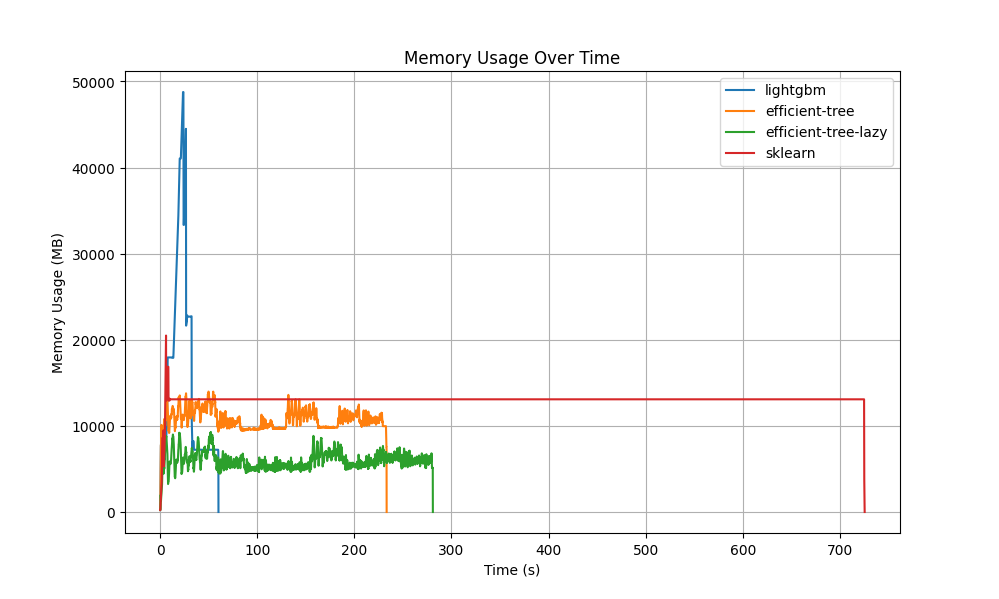
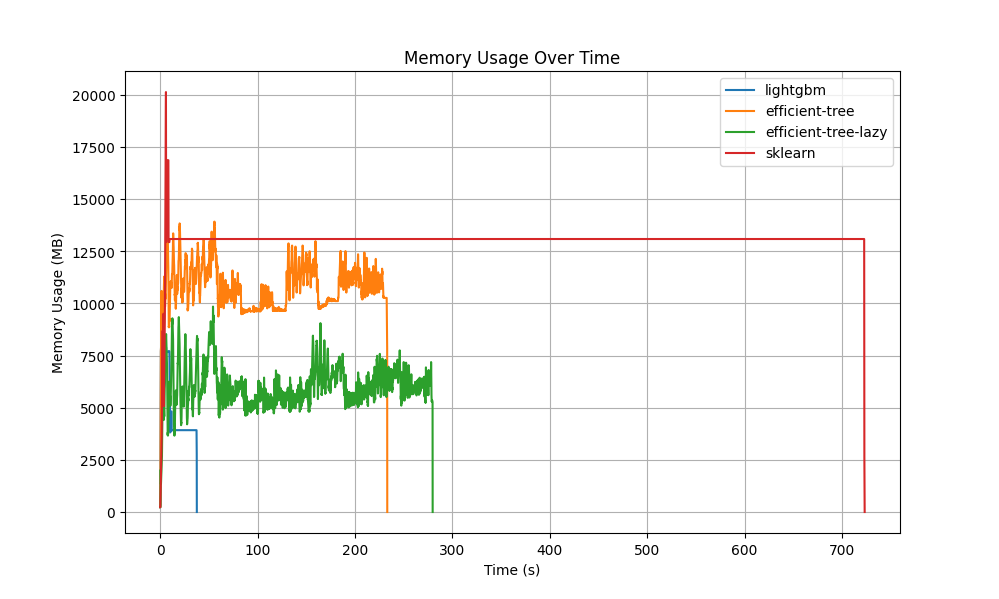
update memory profiling

diff --git a/examples/memory_profiling.py b/examples/memory_profiling.py
@@ -46,12 +46,16 @@ def train_efficient_tree(data_path):
 def train_lightgbm(data_path):
     data = pl.scan_parquet(data_path)
     columns_to_exclude = ["customer_ID", "__index_level_0__", "S_2", "D_63", "D_64"]
+
+    # It is in general a big pain to make lightgbm compatible with arrow. If anything goes wrong during data
+    # preparation, lightgbm defaults to transforming the input data into a csr_matrix which is expensive.
+    # To make it run with pyarrow, these requirements need to be given:
+    # - pyarrow needs to be installed
+    # - cffi needs to be installed
+    # Internally, lightgbm will try to import these packages and fail silently if they are not available.
     lgbm_dataset = lgbm.Dataset(
         data=data.drop(columns_to_exclude + ["target"]).collect(streaming=True).to_arrow(),
-        # Despite the lightgbm docs say you can pass a pyarrow array here, this doesn't work:
-        # - label=pyarrow.array(data.select("target").collect(streaming=True)["target"])
-        # - label=data.select("target").collect(streaming=True)["target"].to_arrow()
-        label=data.select("target").collect(streaming=True)["target"].to_numpy(),
+        label=data.select("target").collect(streaming=True)["target"].to_arrow(),
         free_raw_data=True,
     )
     params = {"objective": "binary", "max_depth": 4}

diff --git a/README.md b/README.md
@@ -47,27 +47,25 @@ The following plot demonstrates the memory usage of different frameworks over ti
 
 1. **Efficient-Trees**: A custom implementation using a Polars backend, offering both lazy and non-lazy execution modes to balance memory efficiency and runtime performance.
 2. **Scikit-Learn**: The standard decision tree implementation from scikit-learn, widely used for traditional machine learning tasks.
-3. **LightGBM**: A gradient boosting framework optimized for speed and performance, known for its scalability but with higher memory requirements.
+3. **LightGBM**: A gradient boosting framework optimized for speed and performance, now using Arrow data. It demonstrates superior memory efficiency and runtime performance.
 
 ![Memory Usage Comparison](examples/images/memory_profiles.png)
 
 ### Key Observations
 
 1. **Memory Usage**:
-   - **Efficient-Trees (Lazy Execution)**: Uses the least memory among all tested approaches, with a peak memory usage of approximately 8 GB. The lazy execution model efficiently processes data without fully loading it into memory, making it ideal for large-scale or memory-constrained scenarios.
-   - **Efficient-Trees (Non-Lazy Execution)**: Requires slightly more memory than the lazy execution variant, with a peak usage of around 12 GB. However, it still outperforms Scikit-Learn and LightGBM in terms of memory efficiency.
-   - **Scikit-Learn**: Peaks at about 20 GB of memory, which is significantly higher than Efficient-Trees in both lazy and non-lazy execution modes. The memory profile shows spikes during data loading and model fitting.
-   - **LightGBM**: The least memory-efficient approach, requiring approximately 50 GB of memory. Its high memory consumption makes it less suitable for memory-constrained environments.
+   - **LightGBM**: Demonstrates the lowest memory usage when leveraging Arrow data, comparable to **Efficient-Trees (Lazy Execution)** at approximately 8 GB. This highlights its highly optimized memory management.
+   - **Efficient-Trees (Lazy Execution)**: Uses minimal memory (around 8 GB), comparable to LightGBM, but with slower runtime performance.
+   - **Efficient-Trees (Non-Lazy Execution)**: Requires slightly more memory than the lazy execution mode (approximately 12 GB), but still outperforms Scikit-Learn in terms of memory usage.
+   - **Scikit-Learn**: Consumes about 15 GB of memory, which is significantly higher than both Efficient-Trees and LightGBM. Spikes are observed during data loading and model fitting.
 
 2. **Runtime**:
-   - **LightGBM**: The fastest algorithm overall, leveraging highly optimized code for gradient boosting. However, its speed comes at the cost of significantly higher memory usage.
-   - **Efficient-Trees (Non-Lazy Execution)**: The second fastest approach, benefiting from a multi-threaded backend powered by Polars. It strikes a balance between speed and memory usage, outperforming Scikit-Learn and the lazy execution variant.
-   - **Efficient-Trees (Lazy Execution)**: The third fastest approach, slightly slower than the non-lazy execution mode due to the overhead of lazy evaluation. However, its reduced memory usage makes it highly suitable for large datasets.
-   - **Scikit-Learn**: By far the slowest algorithm, with a runtime much longer than the other approaches. This is likely due to its single-threaded implementation, which cannot leverage modern multi-core processors effectively.
+   - **LightGBM**: Achieves the fastest runtime, combining efficient data processing with gradient boosting optimizations. Its ability to use Arrow data further enhances performance.
+   - **Efficient-Trees (Non-Lazy Execution)**: The second fastest approach, leveraging a multi-threaded Polars backend for parallel computation.
+   - **Efficient-Trees (Lazy Execution)**: Slightly slower due to the overhead of lazy evaluation, but still faster than Scikit-Learn.
+   - **Scikit-Learn**: By far the slowest algorithm, with a runtime significantly longer than all other approaches.
 
 3. **Overall Insights**:
-   - **Efficient-Trees** demonstrates superior memory efficiency, particularly in the lazy execution mode, making it a strong choice for applications where memory constraints are a concern.
-   - While **LightGBM** is very good in speed, its high memory usage limits its applicability in low-memory environments.
-   - **Scikit-Learn**, while a well-established library, shows significant limitations in both speed and memory efficiency compared to the other approaches.
-
-This comparison shows the capabilities of **Efficient-Trees**, which provides a range of execution modes to optimize for different trade-offs between speed and memory usage. Its lazy execution mode is particularly valuable for large-scale datasets, while the non-lazy mode balances performance and resource consumption.
+   - **LightGBM** demonstrates the best performance in terms of both memory efficiency and runtime, making it the clear winner for large-scale datasets.
+   - **Efficient-Trees** provides flexibility between lazy and non-lazy execution modes, which might be useful in scenarios requiring fine-grained control.
+   - **Scikit-Learn**, while a robust and trusted library, struggles to compete with the modern optimizations seen in Efficient-Trees and LightGBM.
